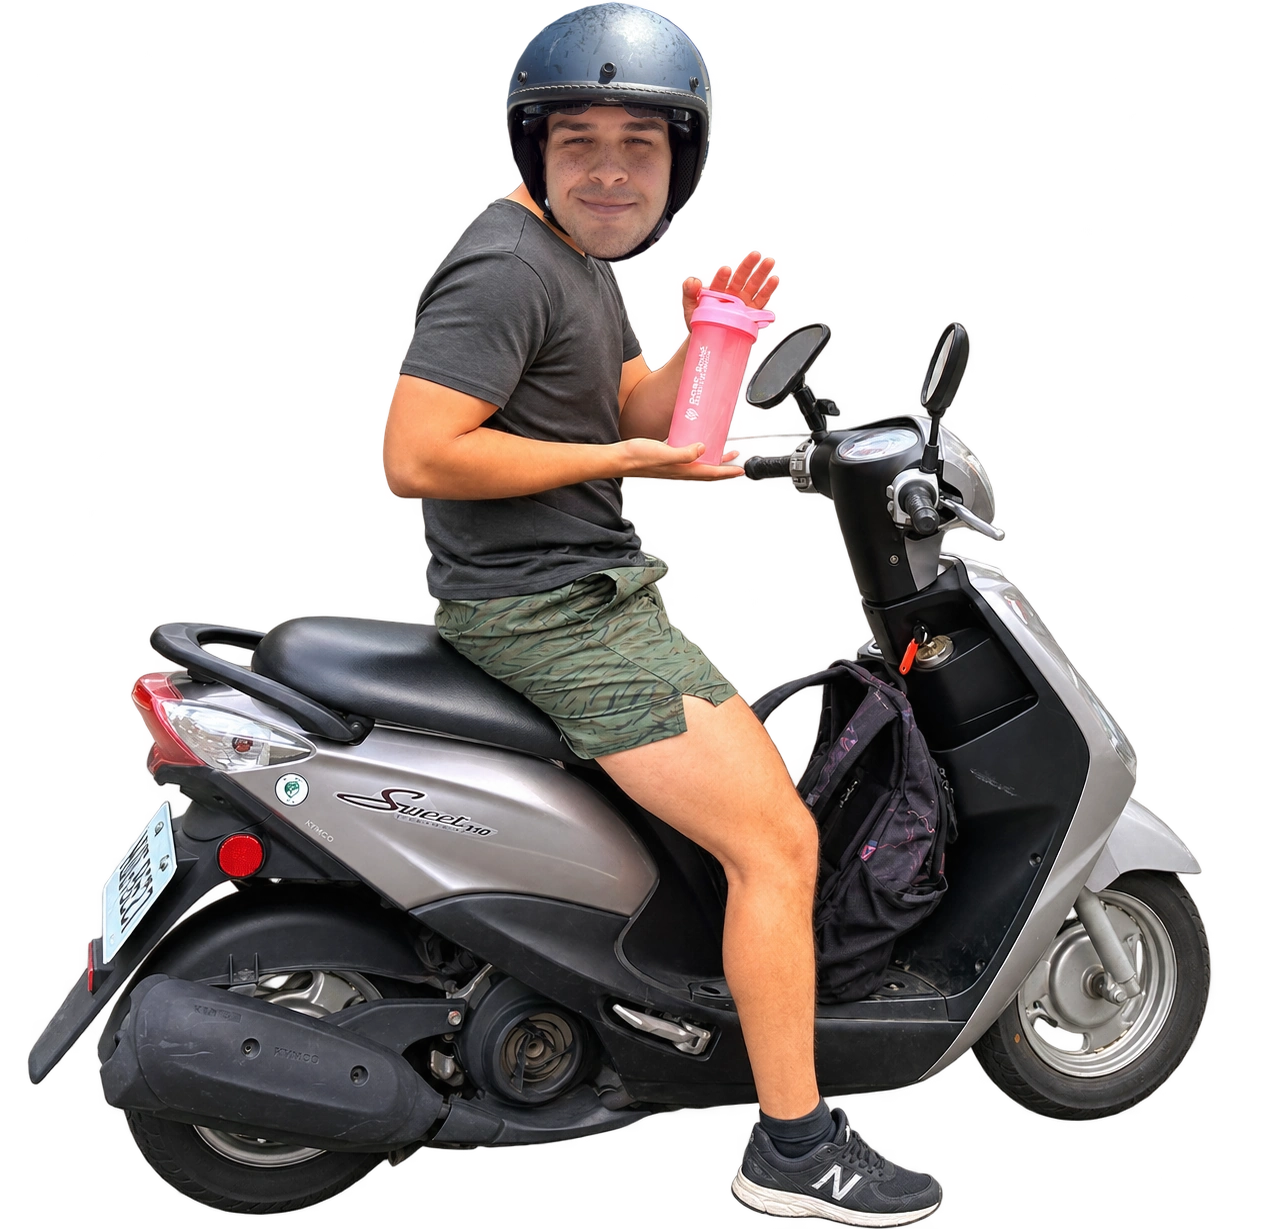
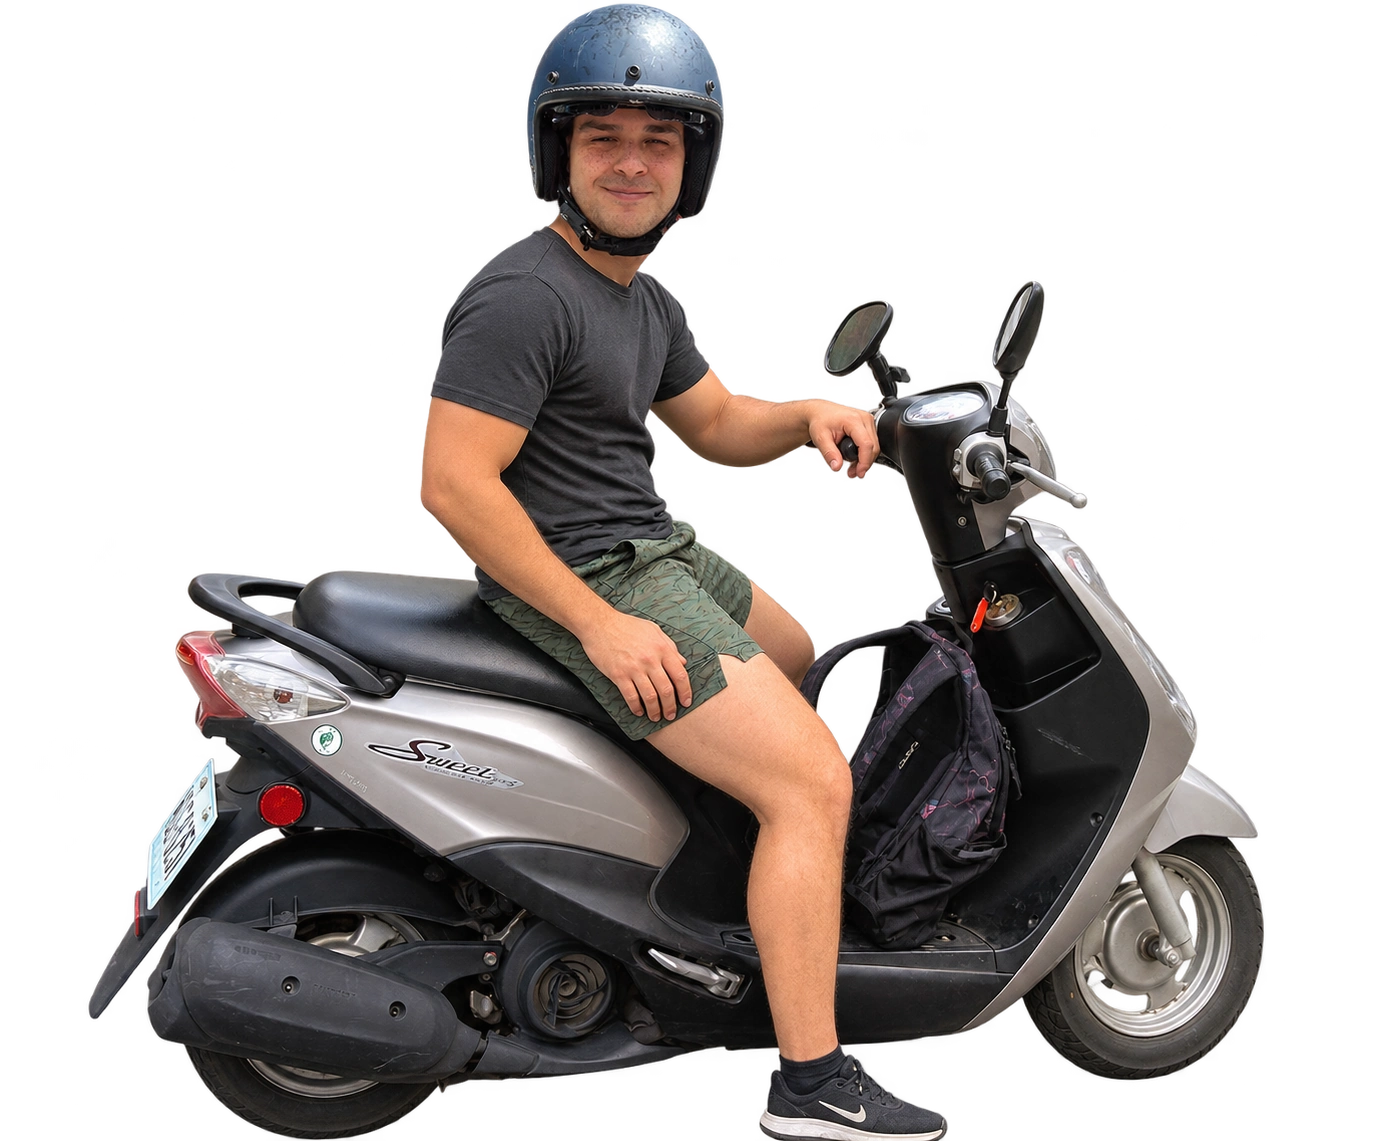
Refine scooter rider pose and remove bottle

diff --git a/src/RoadTrip.jsx b/src/RoadTrip.jsx
@@ -17,8 +17,8 @@ const roads = [
 function Rider({ riderRef }) {
   return <g ref={riderRef} transform="translate(110 403)">
     <ellipse cx="0" cy="4" rx="54" ry="8" fill="#20332c" opacity=".12" />
-    <svg x="-34" y="-141" width="160" height="154" viewBox="0 0 1280 1229" overflow="visible" aria-hidden="true">
-      <image href="/frames/rider-cutout.webp" width="1280" height="1229" preserveAspectRatio="none" />
+    <svg x="-28" y="-117" width="160" height="132" viewBox="0 0 1379 1141" overflow="visible" aria-hidden="true">
+      <image href="/frames/rider-cutout.webp" width="1379" height="1141" preserveAspectRatio="none" />
     </svg>
   </g>
 }
